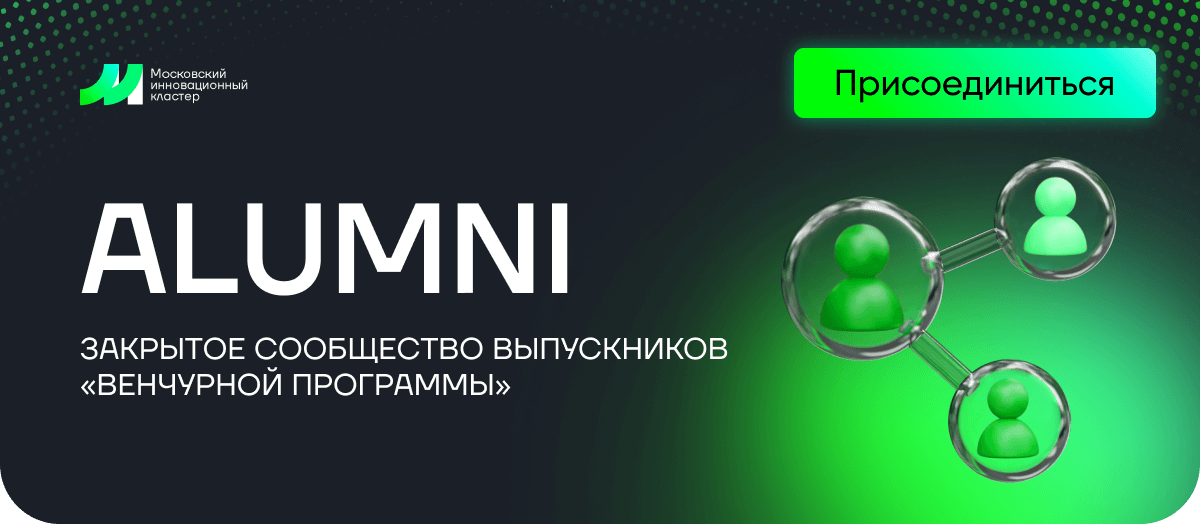
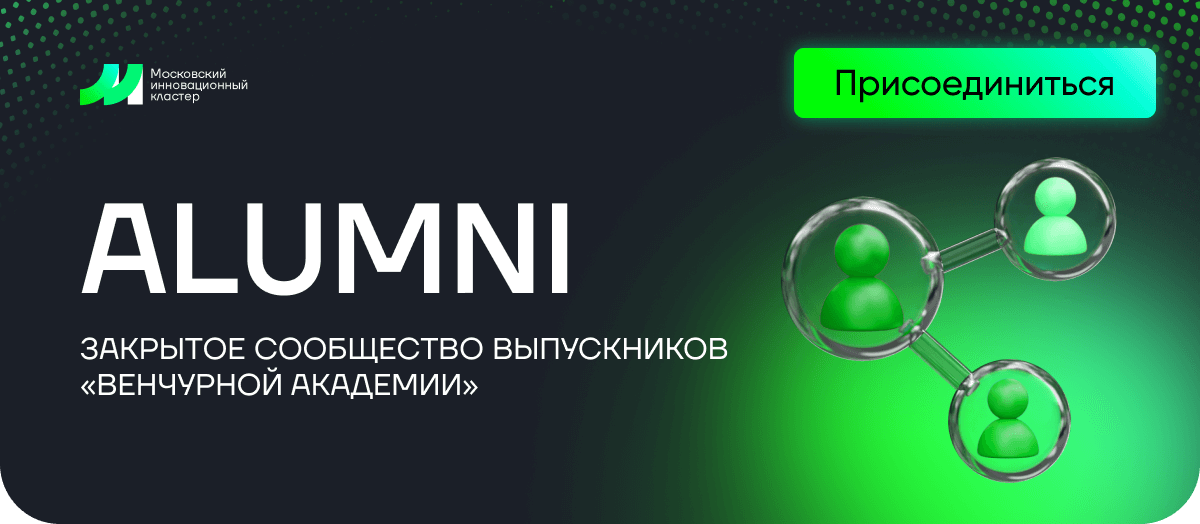
change mik-208

Changed region(s): [[0.2467, 0.7023, 0.4317, 0.7634], [0.7708, 0.1527, 0.8325, 0.1832], [0.925, 0.0916, 0.9558, 0.1221]]

diff --git a/mik-208/Alumni.html b/mik-208/Alumni.html
@@ -103,7 +103,7 @@
                                         <tr>
                                             <td style="width:600px;">
                                                 <a href="https://t.me/+DVFNxwyqln8xNzM6" target="_blank">
-                                                    <img alt="ALUMNI. Закрытое сообщество выпускников «Венчурной программы». Нажмите здесь, чтобы присоединиться." height="auto" src="https://cp.unisender.com/ru/user_file?resource=images&user_id=5608985&name=mik-208-hero.png" style="border:0;display:block;outline:none;text-decoration:none;height:auto;width:100%;font-size:13px;" width="600" />
+                                                    <img alt="ALUMNI. Закрытое сообщество выпускников «Венчурной академии». Нажмите здесь, чтобы присоединиться." height="auto" src="https://cp.unisender.com/ru/user_file?resource=images&user_id=5608985&name=mik-208-hero.png" style="border:0;display:block;outline:none;text-decoration:none;height:auto;width:100%;font-size:13px;" width="600" />
                                                 </a>
                                             </td>
                                         </tr>
@@ -132,7 +132,7 @@
                             <tbody>
                             <tr>
                                 <td align="left" style="font-size:0px;word-break:break-word;">
-                                    <div style="font-family: Gilroy, Helvetica, Arial, sans-serif;font-size:20px;font-weight:400;line-height:24px;text-align:left;color:#000000;">Вы&nbsp;просили – мы&nbsp;сделали! Запускаем закрытое сообщество выпускников всех потоков «Венчурной программы».</div>
+                                    <div style="font-family: Gilroy, Helvetica, Arial, sans-serif;font-size:20px;font-weight:400;line-height:24px;text-align:left;color:#000000;">Вы&nbsp;просили – мы&nbsp;сделали! Запускаем закрытое сообщество выпускников всех потоков «Венчурной академии».</div>
                                 </td>
                             </tr>
                             </tbody>
